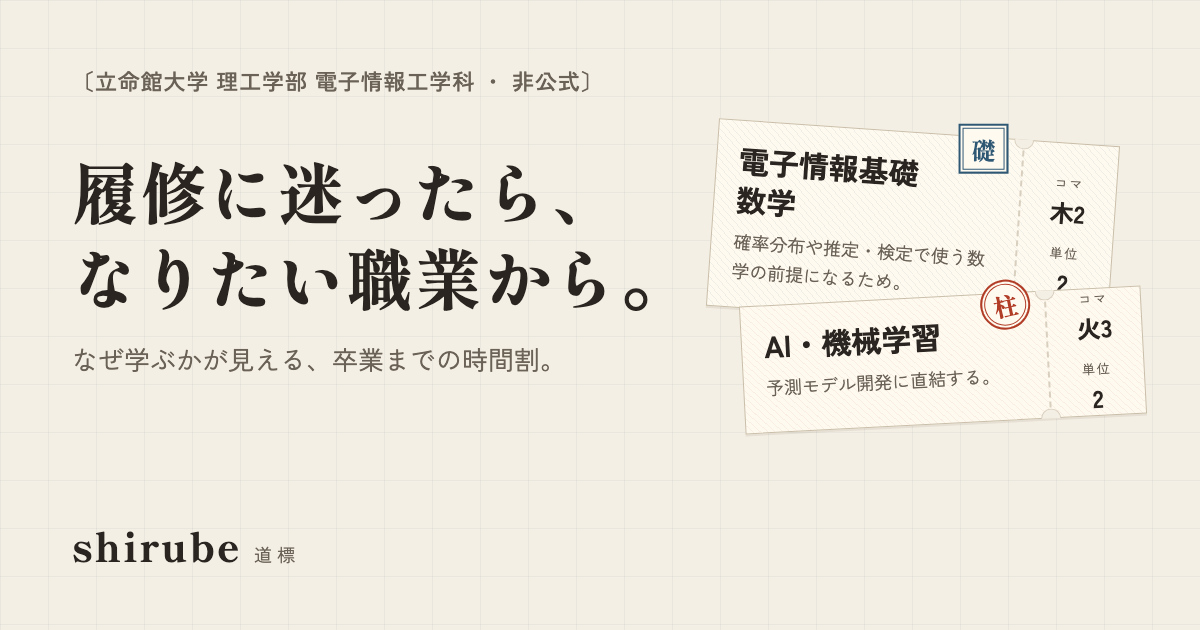
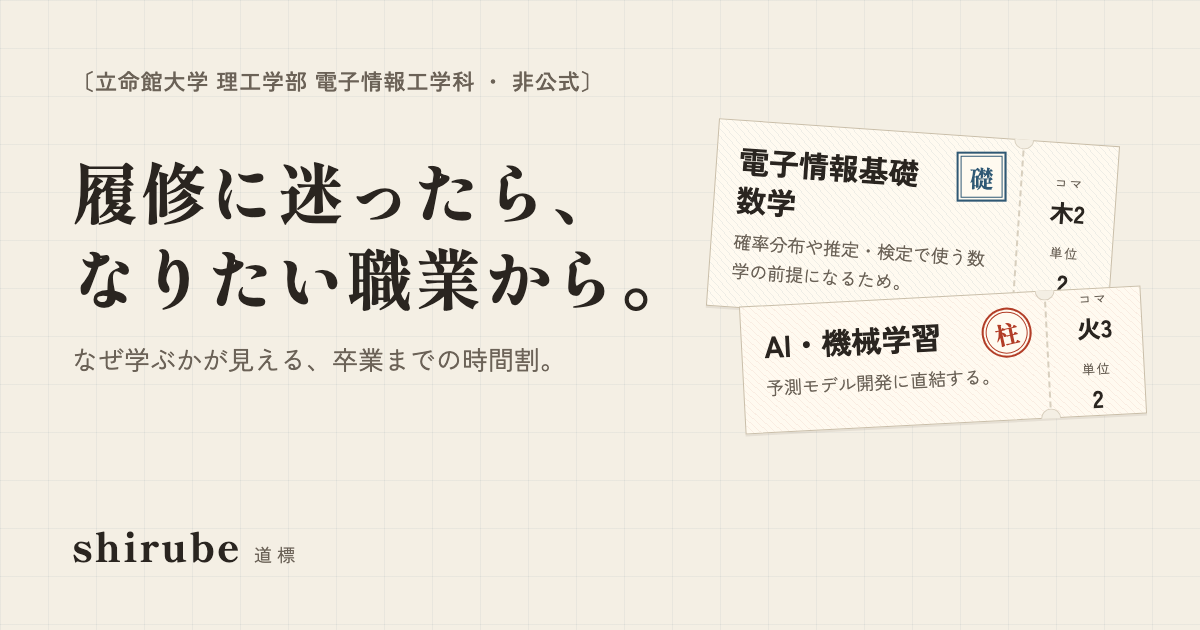
fix: 判子と礎の字を重ねず、スキルを並びのまま読み、使わなくなったものを消す
レビュー 1 周目の指摘を直す。

- 乗り換えの無い礎で見せる「X の礎」の字が、切符の右上の判子の下に隠れ
  えた。字にも判子のぶんの右の余白を取る
- トップの見本の切符は、手前の切符の判子を上の辺にかけると、奥の切符の
  字に重なりうる(CLAUDE.md の「奥の切符の文字を隠さない」)。判子の形から
  縦の位置を外し、結果の切符は上の辺に、見本の切符と共有カードは切符の中に
  押す。共有カードは撮り直した
- スキルを「・」でつないだ 1 本の文字列にしていたので、「確率・統計」の
  ようなスキルと区切りが紛れ、読み上げも並びでなくなった。並び(ul)のまま、
  区切りは「、」にする。並びを p の中に置くとブラウザが p を閉じて、
  サーバーで描いた形と食い違った(e2e の Intl.Segmenter の無いブラウザの
  試験が React の #418 で見つけた)ので、行は div にする
- 通し番号を dl の中に aria-hidden の組で置き、読み上げられない sr-only の
  dt を足していた。dl から出して、半券の右下に置く飾りの字にする
- transfers は礎にしか作られないので、切符の柱か礎かの別名(kind)は
  course.relevance と同じだった。別名をやめる
- 凡例を判子の形にして、RELEVANCE_TONES の fill を使う所が無くなった。消す
- 結果の画面の「◇」が無くなったので、手で測る一覧から外す。CLAUDE.md の
  「要約の到着」も要約から消えたので直す

見送ったもの

- 「礎」の 1 字の判子が手で測る一覧に無い: axe が色の差を測れていて、e2e が
  通る

e2e 205 件、Vitest 141 件が通る。

Claude-Session: https://claude.ai/code/session_01Uv4W9cMkDQr3YL2szVJVhC

Changed region(s): [[0.7708, 0.181, 0.8633, 0.3317], [0.8017, 0.4222, 0.8633, 0.573]]

diff --git a/frontend/src/components/course-ticket.tsx b/frontend/src/components/course-ticket.tsx
@@ -53,7 +53,6 @@ export function CourseTicket({
   const focusing = useTransferFocus();
   const answering = useContext(TakenAnswersContext);
   const nameWords = useCourseWords(course.name);
-  const kind = transfer ? "foundation" : course.relevance;
   const role = transfer ? RELEVANCE_LABELS.foundation : roleLabel(course);
   const placed = "slots" in course;
   const emphasis =
@@ -69,14 +68,14 @@ export function CourseTicket({
       onPointerLeave={() => focusing?.hover(null)}
       onFocus={() => focusing?.select(course.name)}
       onBlur={() => focusing?.select(null)}
-      className={`relative grid min-w-0 border border-line bg-note transition-shadow duration-300 sm:grid-cols-[minmax(0,1fr)_auto] ${RELEVANCE_TONES[kind].ground} ${emphasis}`}
+      className={`relative grid min-w-0 border border-line bg-note transition-shadow duration-300 sm:grid-cols-[minmax(0,1fr)_auto] ${RELEVANCE_TONES[course.relevance].ground} ${emphasis}`}
     >
       <div className="grid min-w-0 content-start gap-1 px-3.5 py-3">
         <p
           className={
-            role === RELEVANCE_LABELS[kind]
+            role === RELEVANCE_LABELS[course.relevance]
               ? "sr-only"
-              : `text-label font-bold tracking-[0.14em] ${RELEVANCE_TONES[kind].text}`
+              : `pr-10 text-label font-bold tracking-[0.14em] ${RELEVANCE_TONES[course.relevance].text}`
           }
         >
           {role}
@@ -153,25 +152,22 @@ export function CourseTicket({
             <dt className="text-label tracking-[0.14em] text-sub">単位</dt>
             <dd className="text-sm font-bold">{course.credits}</dd>
           </div>
-          {serial && (
-            <div
-              aria-hidden
-              className="max-sm:col-span-3 max-sm:text-right sm:mt-1"
-            >
-              <dt className="sr-only">番号</dt>
-              <dd className="text-label tracking-[0.08em] text-sub">
-                {serial}
-              </dd>
-            </div>
-          )}
         </dl>
+      )}
+      {serial && (
+        <span
+          aria-hidden
+          className="absolute right-2 bottom-1 text-label tracking-[0.08em] text-sub"
+        >
+          {serial}
+        </span>
       )}
       <span
         aria-hidden
         style={{ rotate: `${stampTilt(course.name)}deg` }}
-        className={`right-3 size-9 ${RELEVANCE_TONES[kind].stamp} ${placed ? "sm:right-[5.6rem]" : ""}`}
+        className={`-top-2.5 right-3 size-9 ${RELEVANCE_TONES[course.relevance].stamp} ${placed ? "sm:right-[5.6rem]" : ""}`}
       >
-        {RELEVANCE_LABELS[kind]}
+        {RELEVANCE_LABELS[course.relevance]}
       </span>
     </article>
   );

diff --git a/frontend/src/components/journey-summary.tsx b/frontend/src/components/journey-summary.tsx
@@ -20,15 +20,29 @@ export function JourneySummary({
   ];
   return (
     <div className="max-w-2xl border-t-2 border-b border-t-ink border-b-line dark:border-t-ink/60">
-      <p className="flex flex-wrap gap-x-4 border-b border-line py-2 text-sm">
+      <div className="flex flex-wrap gap-x-4 border-b border-line py-2 text-sm">
         <span>
           <span className="font-bold">
             {semesterLabel(conditions.grade, conditions.term)}
           </span>{" "}
           発
         </span>
-        {skills.length > 0 && <span>経由 {skills.join("・")}</span>}
-      </p>
+        {skills.length > 0 && (
+          <div>
+            経由{" "}
+            <ul className="inline">
+              {skills.map((skill) => (
+                <li
+                  key={skill}
+                  className="inline after:content-['、'] last:after:content-none"
+                >
+                  {skill}
+                </li>
+              ))}
+            </ul>
+          </div>
+        )}
+      </div>
       <dl className="grid grid-cols-2 gap-y-1 py-2.5 text-sm sm:flex sm:flex-wrap">
         {facts.map(([term, value]) => (
           <div

diff --git a/frontend/src/components/relevance-tones.ts b/frontend/src/components/relevance-tones.ts
@@ -5,7 +5,6 @@ export const RELEVANCE_TONES: Record<
   Relevance,
   {
     text: string;
-    fill: string;
     sticky: string;
     stamp: string;
     mark: string;
@@ -14,7 +13,6 @@ export const RELEVANCE_TONES: Record<
 > = {
   core: {
     text: "text-pillar",
-    fill: "bg-pillar",
     sticky: "rotate-[0.4deg] bg-pillar-soft",
     stamp: TICKET_STAMP,
     mark: "rounded-full border border-pillar shadow-[inset_0_0_0_1.5px_var(--paper),inset_0_0_0_2.25px_var(--pillar)]",
@@ -23,7 +21,6 @@ export const RELEVANCE_TONES: Record<
   },
   foundation: {
     text: "text-route",
-    fill: "bg-route",
     sticky: "rotate-[-0.4deg] bg-route-soft",
     stamp: TICKET_SEAL,
     mark: "border border-route shadow-[inset_0_0_0_1.5px_var(--paper),inset_0_0_0_2.25px_var(--route)]",

diff --git a/frontend/src/components/styles.ts b/frontend/src/components/styles.ts
@@ -35,7 +35,7 @@ export const TICKET_NOTCH = `${TICKET_NOTCH_SHAPE} before:-top-2 before:-left-[c
 export const COURSE_TICKET_NOTCH = `${TICKET_NOTCH} max-sm:before:-top-[calc(0.5rem+1px)] max-sm:before:-left-2 max-sm:before:[clip-path:inset(0_0_0_50%)] max-sm:after:-top-[calc(0.5rem+1px)] max-sm:after:-right-2 max-sm:after:bottom-auto max-sm:after:left-auto max-sm:after:[clip-path:inset(0_50%_0_0)]`;
 
 const STAMP_SHAPE =
-  "absolute -top-2.5 grid place-items-center border-[1.5px] bg-note font-serif font-extrabold";
+  "absolute grid place-items-center border-[1.5px] bg-note font-serif font-extrabold";
 
 export const TICKET_STAMP = `${STAMP_SHAPE} rounded-full border-pillar text-pillar shadow-[inset_0_0_0_1.5px_var(--note),inset_0_0_0_2.25px_var(--pillar)]`;
 

diff --git a/frontend/src/components/hero-tickets.tsx b/frontend/src/components/hero-tickets.tsx
@@ -72,7 +72,7 @@ export function HeroTickets() {
                       rotate: `${stampTilt(course.name)}deg`,
                       animationDelay: core ? `${STAMP_DELAY_MS}ms` : undefined,
                     }}
-                    className={`right-[calc(var(--stub)+0.75rem)] size-8 text-[0.9375rem] md:size-9 md:text-base ${RELEVANCE_TONES[course.relevance].stamp} ${core ? "motion-safe:animate-stamp" : ""}`}
+                    className={`top-2.5 right-[calc(var(--stub)+0.75rem)] size-8 text-[0.9375rem] md:size-9 md:text-base ${RELEVANCE_TONES[course.relevance].stamp} ${core ? "motion-safe:animate-stamp" : ""}`}
                   >
                     {RELEVANCE_LABELS[course.relevance]}
                   </span>

diff --git a/frontend/e2e/screens.spec.ts b/frontend/e2e/screens.spec.ts
@@ -34,7 +34,7 @@ const UNDECORATED_CSS = `
   [class*="${TICKET_NOTCH_SHAPE}"]::before, [class*="${TICKET_NOTCH_SHAPE}"]::after { content: none !important; }
 `;
 const HAND_CHECKED_CONTRAST: Record<string, readonly string[] | undefined> = {
-  nonBmp: ["→", "◇"],
+  nonBmp: ["→"],
   shortTextContent: ["柱"],
   bgOverlap: ["卒業", `${RUNNING_PLAN.conditions.grade} 回生`],
   elmPartiallyObscured: [SAMPLE_PLAN.conditions.occupation],

diff --git a/frontend/brand/opengraph-image.html b/frontend/brand/opengraph-image.html
@@ -150,7 +150,7 @@
       .stamp,
       .seal {
         position: absolute;
-        top: -14px;
+        top: 14px;
         right: 110px;
         display: grid;
         place-items: center;

diff --git a/CLAUDE.md b/CLAUDE.md
@@ -55,7 +55,7 @@ frontend(`frontend/` で実行)
 
 `main.py`、`presentation/cli/`、`presentation/worker.py` は合成ルートで、infrastructure の実装を組み立てて application のポートの型として渡す。共有する組み立ての部品は `presentation/composition.py` に置く。API は `presentation/api/app.py` の `create_app` が組み立て済みのユースケースを受け取り(ADR 0029)、テストはフェイクを渡す。それ以外の presentation のコードは infrastructure を import しない。
 
-frontend は API を呼んで表示するだけで、業務ロジックを置かない。バックエンドは Next.js の Route Handler(`src/app/api/`)経由で呼ぶ。Route Handler はログインを確かめ、`src/lib/backend.ts` で Google の sub を入れた JWT を付けて転送するだけ(ADR 0028)。転送の前に、状態を変える要求(GET、HEAD、OPTIONS 以外)の送り元を `Sec-Fetch-Site`(無ければ `Origin` と、Next が付ける `X-Forwarded-Host` のホスト名)で確かめてほかのサイトからなら 403、本文は 64KB まで(超えれば 413)にする(ADR 0039)。画面は `src/app/` の入力(`/`)、結果(`/plans/[id]`)、一覧(`/plans`)と、ログインの要らない利用規約(`/terms`)とプライバシーポリシー(`/privacy`、どちらも `LegalDocument` と `ContactSection` の部品で同じ体裁)、ログイン(`/login`)で、前の 3 つはどれも `LoginRequired` でログインを確かめてから、Client Component(`src/components/`)が Route Handler だけを呼ぶ(ADR 0030)。API の型は、openapi-typescript が生成した `schema.ts` から `src/lib/api/client.ts` が取り出し、表示の決まり(週の時間割の並べ方、ポーリングの打ち切り、ラベル、作成中の段の進み、見え方のクエリ、道のりの合計、駅番号、学期の読み、礎から柱への乗り換え、行き先と授業名の語の切れ目(`words.ts`。開き括弧の前と 1 字の助詞のあとでも折り、閉じ括弧のあとの 1 字の語はつなぐ。語の端の括弧は隣の 1 字と折らない組にする。ADR 0061、0062))は `src/lib/` に置いて Vitest で確かめる。部品は Tailwind だけで書く。見た目は ADR 0031 の路線図を ADR 0033 の「しるべ線」に深めたもの(行先表示(狭い画面では字を縮め、語の切れ目でだけ折る。ADR 0058)、乗換案内のような要約(「発・経由(スキル)」「所要|計|柱|礎」「1 学期の上限・年度」の 3 段)、学期は駅名標、授業は切符(柱は朱の丸判、礎は紺の角判を切符の上の辺に半分かけて押し、傾きは `stampTilt` で授業名から決める。地は柱と礎の色の細い斜線の地紋、半券の下に道のりの順の通し番号(`ticketSerials`)。切符の左上の柱と礎の字は読み上げにだけ残し、乗り換えの無い礎の「X の礎」だけ見せる。ADR 0083。授業名は全ての幅で語の切れ目でだけ折り、幅 640px 未満では半券を下に横並びにする。授業名ごとの語の並びは、トップはサーバーで、結果の画面はブラウザで 1 度だけ作り、`CourseWordsProvider` で切符に配る。ADR 0061)、礎は柱への乗り換え、道のりの終わりと帯の終点と要約の到着は行き先(職業)で駅番号を付けない(ADR 0036。道のりの終わりは板と同じに字を縮めて、帯の終点とともに語の切れ目でだけ折る。行き先は呼ぶ側で 1 度だけ名前と語の並びの組(`destinationOf`)を作って板と道のりに渡し、板と道のりの終わりは `DestinationName` で名前の最後の 1 字(閉じ括弧で終わるときは括弧の組)と「行」「へ」を折らない組にする。トップの見本の道のりはサーバーで語に分けて渡し、ブラウザで分け直さない。ADR 0061)、道のりの上に車内の路線図の帯、切符に触れると乗り換えでつながる切符が光る、前の学期に開講された授業の切符に「もう取った」、外した授業は「もう取った授業」に並べて戻せる、入力の画面に「もう取ったと答えた授業」を畳んで置き取り消せる、行先表示のすぐ下に非公式で必修や卒業要件を見ていないことの注意、切符に原ページへの「シラバス ↗」、終わりに出典。ADR 0040。結果の画面と一覧に「消す」(作成中でも置き、backend の 409 の文をその場に出す)、一覧の下に退会(作った道標の全件数ともう取ったと答えた授業の数を出す)。どちらもその場で「本当に消す / やめる」を出し、やめるにフォーカスを置く。退会したらサーバーアクションでログアウトしてトップへ。ADR 0041。全ページの下にフッター(非公式の断り、利用規約、プライバシーポリシー、GitHub と Issue)。ログインのボタンは同意の文と組で、ヘッダーのログインはそのボタンを置いた `/login` へのリンク(ログイン済みで開いたら入力の画面へ移す。ログインのあとも Auth.js が `/login` に戻すので、そこから移る)。ADR 0042)で、器は罫と直角(角丸、柔らかい影、錠剤形のボタンやタブや札を使わない。2px の墨の罫は塊の始まり、1px の line は区切り、破線は切り取り線と、空きやまだ通っていない道(空いたコマ、置けなかった授業、作成中のこれからの段)だけ、影は画面に浮く知らせと時間割の付箋の 2px のずれだけ。タブは 1 つずつ下に罫を引き、選んだタブだけ路線の色の 3px にする `tabClass`(太さは替えない)、枠のボタンは `OUTLINED`、主のボタンは墨の `PRIMARY_BUTTON`、危険のボタンは `DANGER_BUTTON`。ADR 0083)。色は `src/app/globals.css` の CSS の変数(明るい見た目が既定、`data-theme="dark"` で暗い見た目。Tailwind の `dark:` はこの `data-theme` に結んであり、変数で替えられない見た目にだけ使う。切り替えはヘッダーに置き、画面に固定しない。ADR 0082)から Tailwind の色(paper、ink、pillar、route など)として引き、画面の言葉は中心を「柱」、土台を「礎」と呼ぶ。結果の画面の見え方(道のり / 時間割帳)と学期は `?view=timetable&semester=3-autumn` のクエリに持ち、`QueryLink` が `history.pushState` で変える(Next の useSearchParams と連動し、サーバーへ往復しない)。ログイン前のトップは `src/lib/sample-plan.ts` の見本の道標を見せる。決まった文の見出し(トップ、作成中、プライバシーポリシー)は手で句に分け、`Phrases` が句のあいだに aria-hidden の `<wbr>` を挟んで `keep-all` で句の切れ目でだけ折る(行より長い句だけ句の中で折る。`<wbr>` を読み上げから外して、読み上げの名前に空白を入れない。ADR 0059)。トップの見出しの横(幅 768px 未満では下)には、共有カードと同じ見本の切符 2 枚と「見本 ── 職業」の断り(`HeroTickets`。断りは `sampleLabel`。選び方、理由の最後の一文、授業名の全角の英数字を半角にすること、半券のコマの書き方は `src/lib/sample-tickets.ts`)を置き、開いたときに配って柱の判を押し、マウスを乗せると持ち上がって傾く(切符はサーバーで描き、傾きだけ `Tilt` がクライアントで追う。傾けるのはマウスを乗せられる画面だけ。切符の大きさは rem で、2 枚を上から流し込み、奥の切符の文字を隠さない。ADR 0047)。無いページは `not-found.tsx`、描けなかったときは `error.tsx`(root layout が壊れたときは `global-error.tsx`。見た目の script とフォント(`src/lib/fonts.ts`)は root layout と共有)で日本語に出す。API の失敗は `FailureNotice`(何を読めなかったかの文、失敗の文、読み直すボタン。全面の知らせは読み直す前に消し、一部の知らせは結果が返るまで残す)か同じ文(`messageOf`)で出し、全面の知らせの枠は `Notice`(ページに h1 が残る場所では h2、`/plans/[id]` は `LoginRequired` の `heading="h1"`)で、英語の文を見せない。ログインが切れたとき(401)は `lib/api/client.ts` が購読者に知らせ、`LoginRequired` の中の `SignedOutGate` が 1 か所でページの中身を「ログインが切れました」と「ログインし直す」(ページを読み直す)に替える。無い道標(404)は読み直すボタンを出さず一覧への導線(ADR 0044)。動きは `motion-safe:` で付け、動きを減らす設定では出さない。アクセシビリティは WCAG 2.2 の AA を目安にする(ADR 0056): フォーカスの輪は `globals.css` の `:focus-visible`(路線の色の 2px)、操作する部品の枠は `--edge`(Tailwind の `edge`。切符の縁などの飾りの線は `line`)、押せる部品は 24 × 24px 以上(`styles.ts` の `TARGET` から組む `STANDALONE_LINK`、`NAV_LINK` と `SMALL_BUTTON`。文の中のリンクは `TEXT_LINK` のまま)、11px 未満の文字は使わない。小さい文字は rem のテーマの名前 `text-label`(11px)、`text-direction`(11.5px)、`text-fine`(13px)で書き、px で書かない(ブラウザの文字の設定に従わせる。SVG の中は絵と一緒に大きくなるので px のまま。字と一緒に大きくなる飾りの位置も rem。ADR 0071)。帯の下に隠れないよう、帯を出すときは道のりの中に `scroll-mt-28`。スクリプトでフォーカスを移す知らせは見えている知らせに輪を付け、もう取ったのあとの知らせは、キーボードで答えたときはフォーカスが外へ移るまで残す。作成中を見たあとの完成は、置いたままの読み上げの枠(role="status")とタブの題(`planTitlePrefix`、`completionNotice`)で伝え、フォーカスは動かさない。週の時間割は幅 640px 未満では曜日ごとの一覧(`daySchedules`)にする。`next.config.ts` の `headers` が全ての経路に `src/lib/security-headers.ts` のヘッダー(nonce 無しの CSP、X-Content-Type-Options、X-Frame-Options、Referrer-Policy、Permissions-Policy。HSTS は本番のプロキシ)を付ける。検索に載せるかはページの metadata の `robots` で、root layout の既定は noindex、トップと規約とポリシーだけ `INDEXED`(新しいページは載らない)。`app/robots.ts` は `/api/` だけ拒否、`app/sitemap.ts` は `PUBLIC_PAGES`、Auth.js の組み込みのページは使わず `/login` に向ける(`pages`)、`app/manifest.ts`、`app/icon.svg`、`app/favicon.ico`、`app/apple-icon.png`、`app/opengraph-image.png`(キャッチフレーズ「履修に迷ったら、なりたい職業から。」と、その下の一文「なぜ学ぶかが見える、卒業までの時間割。」。どちらも `src/lib/site.ts` の `CATCHPHRASE` と `SUBHEAD` で、トップの見出しとその下の一文も同じ。カードと代替の文にそれがあるかを Vitest が確かめる。右の絵は見本の道標の授業の切符 2 枚(柱と礎)で ADR 0046。授業名、理由、コマ、単位がトップの切符と同じかを Vitest が確かめ、ずれたら撮り直す。ADR 0047。`frontend/brand/make.py` で撮る)と `opengraph-image.alt.txt`。OG の title と description はページの title から Next が引き継ぐ。ADR 0045。
+frontend は API を呼んで表示するだけで、業務ロジックを置かない。バックエンドは Next.js の Route Handler(`src/app/api/`)経由で呼ぶ。Route Handler はログインを確かめ、`src/lib/backend.ts` で Google の sub を入れた JWT を付けて転送するだけ(ADR 0028)。転送の前に、状態を変える要求(GET、HEAD、OPTIONS 以外)の送り元を `Sec-Fetch-Site`(無ければ `Origin` と、Next が付ける `X-Forwarded-Host` のホスト名)で確かめてほかのサイトからなら 403、本文は 64KB まで(超えれば 413)にする(ADR 0039)。画面は `src/app/` の入力(`/`)、結果(`/plans/[id]`)、一覧(`/plans`)と、ログインの要らない利用規約(`/terms`)とプライバシーポリシー(`/privacy`、どちらも `LegalDocument` と `ContactSection` の部品で同じ体裁)、ログイン(`/login`)で、前の 3 つはどれも `LoginRequired` でログインを確かめてから、Client Component(`src/components/`)が Route Handler だけを呼ぶ(ADR 0030)。API の型は、openapi-typescript が生成した `schema.ts` から `src/lib/api/client.ts` が取り出し、表示の決まり(週の時間割の並べ方、ポーリングの打ち切り、ラベル、作成中の段の進み、見え方のクエリ、道のりの合計、駅番号、学期の読み、礎から柱への乗り換え、行き先と授業名の語の切れ目(`words.ts`。開き括弧の前と 1 字の助詞のあとでも折り、閉じ括弧のあとの 1 字の語はつなぐ。語の端の括弧は隣の 1 字と折らない組にする。ADR 0061、0062))は `src/lib/` に置いて Vitest で確かめる。部品は Tailwind だけで書く。見た目は ADR 0031 の路線図を ADR 0033 の「しるべ線」に深めたもの(行先表示(狭い画面では字を縮め、語の切れ目でだけ折る。ADR 0058)、乗換案内のような要約(「発・経由(スキル)」「所要|計|柱|礎」「1 学期の上限・年度」の 3 段)、学期は駅名標、授業は切符(柱は朱の丸判、礎は紺の角判を切符の上の辺に半分かけて押し、傾きは `stampTilt` で授業名から決める。地は柱と礎の色の細い斜線の地紋、半券の下に道のりの順の通し番号(`ticketSerials`)。切符の左上の柱と礎の字は読み上げにだけ残し、乗り換えの無い礎の「X の礎」だけ見せる。ADR 0083。授業名は全ての幅で語の切れ目でだけ折り、幅 640px 未満では半券を下に横並びにする。授業名ごとの語の並びは、トップはサーバーで、結果の画面はブラウザで 1 度だけ作り、`CourseWordsProvider` で切符に配る。ADR 0061)、礎は柱への乗り換え、道のりの終わりと帯の終点は行き先(職業)で駅番号を付けない(ADR 0036。道のりの終わりは板と同じに字を縮めて、帯の終点とともに語の切れ目でだけ折る。行き先は呼ぶ側で 1 度だけ名前と語の並びの組(`destinationOf`)を作って板と道のりに渡し、板と道のりの終わりは `DestinationName` で名前の最後の 1 字(閉じ括弧で終わるときは括弧の組)と「行」「へ」を折らない組にする。トップの見本の道のりはサーバーで語に分けて渡し、ブラウザで分け直さない。ADR 0061)、道のりの上に車内の路線図の帯、切符に触れると乗り換えでつながる切符が光る、前の学期に開講された授業の切符に「もう取った」、外した授業は「もう取った授業」に並べて戻せる、入力の画面に「もう取ったと答えた授業」を畳んで置き取り消せる、行先表示のすぐ下に非公式で必修や卒業要件を見ていないことの注意、切符に原ページへの「シラバス ↗」、終わりに出典。ADR 0040。結果の画面と一覧に「消す」(作成中でも置き、backend の 409 の文をその場に出す)、一覧の下に退会(作った道標の全件数ともう取ったと答えた授業の数を出す)。どちらもその場で「本当に消す / やめる」を出し、やめるにフォーカスを置く。退会したらサーバーアクションでログアウトしてトップへ。ADR 0041。全ページの下にフッター(非公式の断り、利用規約、プライバシーポリシー、GitHub と Issue)。ログインのボタンは同意の文と組で、ヘッダーのログインはそのボタンを置いた `/login` へのリンク(ログイン済みで開いたら入力の画面へ移す。ログインのあとも Auth.js が `/login` に戻すので、そこから移る)。ADR 0042)で、器は罫と直角(角丸、柔らかい影、錠剤形のボタンやタブや札を使わない。2px の墨の罫は塊の始まり、1px の line は区切り、破線は切り取り線と、空きやまだ通っていない道(空いたコマ、置けなかった授業、作成中のこれからの段)だけ、影は画面に浮く知らせと時間割の付箋の 2px のずれだけ。タブは 1 つずつ下に罫を引き、選んだタブだけ路線の色の 3px にする `tabClass`(太さは替えない)、枠のボタンは `OUTLINED`、主のボタンは墨の `PRIMARY_BUTTON`、危険のボタンは `DANGER_BUTTON`。ADR 0083)。色は `src/app/globals.css` の CSS の変数(明るい見た目が既定、`data-theme="dark"` で暗い見た目。Tailwind の `dark:` はこの `data-theme` に結んであり、変数で替えられない見た目にだけ使う。切り替えはヘッダーに置き、画面に固定しない。ADR 0082)から Tailwind の色(paper、ink、pillar、route など)として引き、画面の言葉は中心を「柱」、土台を「礎」と呼ぶ。結果の画面の見え方(道のり / 時間割帳)と学期は `?view=timetable&semester=3-autumn` のクエリに持ち、`QueryLink` が `history.pushState` で変える(Next の useSearchParams と連動し、サーバーへ往復しない)。ログイン前のトップは `src/lib/sample-plan.ts` の見本の道標を見せる。決まった文の見出し(トップ、作成中、プライバシーポリシー)は手で句に分け、`Phrases` が句のあいだに aria-hidden の `<wbr>` を挟んで `keep-all` で句の切れ目でだけ折る(行より長い句だけ句の中で折る。`<wbr>` を読み上げから外して、読み上げの名前に空白を入れない。ADR 0059)。トップの見出しの横(幅 768px 未満では下)には、共有カードと同じ見本の切符 2 枚と「見本 ── 職業」の断り(`HeroTickets`。断りは `sampleLabel`。選び方、理由の最後の一文、授業名の全角の英数字を半角にすること、半券のコマの書き方は `src/lib/sample-tickets.ts`)を置き、開いたときに配って柱の判を押し、マウスを乗せると持ち上がって傾く(切符はサーバーで描き、傾きだけ `Tilt` がクライアントで追う。傾けるのはマウスを乗せられる画面だけ。切符の大きさは rem で、2 枚を上から流し込み、奥の切符の文字を隠さない。ADR 0047)。無いページは `not-found.tsx`、描けなかったときは `error.tsx`(root layout が壊れたときは `global-error.tsx`。見た目の script とフォント(`src/lib/fonts.ts`)は root layout と共有)で日本語に出す。API の失敗は `FailureNotice`(何を読めなかったかの文、失敗の文、読み直すボタン。全面の知らせは読み直す前に消し、一部の知らせは結果が返るまで残す)か同じ文(`messageOf`)で出し、全面の知らせの枠は `Notice`(ページに h1 が残る場所では h2、`/plans/[id]` は `LoginRequired` の `heading="h1"`)で、英語の文を見せない。ログインが切れたとき(401)は `lib/api/client.ts` が購読者に知らせ、`LoginRequired` の中の `SignedOutGate` が 1 か所でページの中身を「ログインが切れました」と「ログインし直す」(ページを読み直す)に替える。無い道標(404)は読み直すボタンを出さず一覧への導線(ADR 0044)。動きは `motion-safe:` で付け、動きを減らす設定では出さない。アクセシビリティは WCAG 2.2 の AA を目安にする(ADR 0056): フォーカスの輪は `globals.css` の `:focus-visible`(路線の色の 2px)、操作する部品の枠は `--edge`(Tailwind の `edge`。切符の縁などの飾りの線は `line`)、押せる部品は 24 × 24px 以上(`styles.ts` の `TARGET` から組む `STANDALONE_LINK`、`NAV_LINK` と `SMALL_BUTTON`。文の中のリンクは `TEXT_LINK` のまま)、11px 未満の文字は使わない。小さい文字は rem のテーマの名前 `text-label`(11px)、`text-direction`(11.5px)、`text-fine`(13px)で書き、px で書かない(ブラウザの文字の設定に従わせる。SVG の中は絵と一緒に大きくなるので px のまま。字と一緒に大きくなる飾りの位置も rem。ADR 0071)。帯の下に隠れないよう、帯を出すときは道のりの中に `scroll-mt-28`。スクリプトでフォーカスを移す知らせは見えている知らせに輪を付け、もう取ったのあとの知らせは、キーボードで答えたときはフォーカスが外へ移るまで残す。作成中を見たあとの完成は、置いたままの読み上げの枠(role="status")とタブの題(`planTitlePrefix`、`completionNotice`)で伝え、フォーカスは動かさない。週の時間割は幅 640px 未満では曜日ごとの一覧(`daySchedules`)にする。`next.config.ts` の `headers` が全ての経路に `src/lib/security-headers.ts` のヘッダー(nonce 無しの CSP、X-Content-Type-Options、X-Frame-Options、Referrer-Policy、Permissions-Policy。HSTS は本番のプロキシ)を付ける。検索に載せるかはページの metadata の `robots` で、root layout の既定は noindex、トップと規約とポリシーだけ `INDEXED`(新しいページは載らない)。`app/robots.ts` は `/api/` だけ拒否、`app/sitemap.ts` は `PUBLIC_PAGES`、Auth.js の組み込みのページは使わず `/login` に向ける(`pages`)、`app/manifest.ts`、`app/icon.svg`、`app/favicon.ico`、`app/apple-icon.png`、`app/opengraph-image.png`(キャッチフレーズ「履修に迷ったら、なりたい職業から。」と、その下の一文「なぜ学ぶかが見える、卒業までの時間割。」。どちらも `src/lib/site.ts` の `CATCHPHRASE` と `SUBHEAD` で、トップの見出しとその下の一文も同じ。カードと代替の文にそれがあるかを Vitest が確かめる。右の絵は見本の道標の授業の切符 2 枚(柱と礎)で ADR 0046。授業名、理由、コマ、単位がトップの切符と同じかを Vitest が確かめ、ずれたら撮り直す。ADR 0047。`frontend/brand/make.py` で撮る)と `opengraph-image.alt.txt`。OG の title と description はページの title から Next が引き継ぐ。ADR 0045。
 
 ## 決まっていること(詳細は ADR)
 
